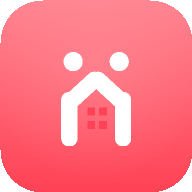
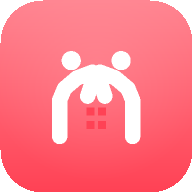
로고를 브랜드 가이드 공식 심볼로 교체
- 두 사람이 정점에서 교차하며 지붕 아치를 이루는 공식 심볼 형태로 재작업
- 반영 위치: 헤더/히어로/결과카드 SVG(mateon.js), 스플래시(index.html),
  Canvas 카드(card.js), 앱 아이콘/og-image(make-assets.js 재생성)
- SW 캐시 v6

diff --git a/make-assets.js b/make-assets.js
@@ -53,13 +53,20 @@ function distSeg(px, py, x1, y1, x2, y2) {
 const CORAL = [255, 107, 122], BLUE = [107, 158, 255], INK = [46, 46, 46], WHITE = [255, 255, 255];
 
 function drawLogo(px, W, H, ox, oy, scale, mono) {
-  const circles = [[40, 16, 10], [88, 16, 10]];
+  const circles = [[38, 15, 10], [90, 15, 10]];
+  // 공식 심볼: 두 몸통 스트로크가 정점에서 교차하며 지붕 아치 형성 (Q곡선 다각선 근사)
   const strokes = [
-    [[36, 96], [36, 56]], [[38, 57], [62, 35]],
-    [[92, 96], [92, 56]], [[90, 57], [66, 35]],
+    // coral (26,94)→(26,56)→Q(44,33)→(60,27)→Q(68,37)→(73,52)
+    [[26, 94], [26, 56]], [[26, 56], [31, 44]], [[31, 44], [44, 33]],
+    [[44, 33], [52, 30]], [[52, 30], [60, 27]],
+    [[60, 27], [64, 32]], [[64, 32], [68, 37]], [[68, 37], [70.5, 44.5]], [[70.5, 44.5], [73, 52]],
+    // blue (102,94)→(102,56)→Q(84,33)→(68,27)→Q(60,37)→(55,52)
+    [[102, 94], [102, 56]], [[102, 56], [97, 44]], [[97, 44], [84, 33]],
+    [[84, 33], [76, 30]], [[76, 30], [68, 27]],
+    [[68, 27], [64, 32]], [[64, 32], [60, 37]], [[60, 37], [57.5, 44.5]], [[57.5, 44.5], [55, 52]],
   ];
-  const rects = [[55, 64], [67, 64], [55, 78], [67, 78]];
-  const sw = 17 / 2;
+  const rects = [[54, 64], [66, 64], [54, 78], [66, 78]];
+  const sw = 16 / 2;
   const LW = Math.ceil(128 * scale), LH = Math.ceil(104 * scale);
   for (let ly = 0; ly < LH; ly++) {
     const v = ly / scale, Y = Math.round(oy + ly);
@@ -72,7 +79,7 @@ function drawLogo(px, W, H, ox, oy, scale, mono) {
         if (Math.hypot(u - cx, v - cy) <= r) col = mono ? WHITE : (ci === 0 ? CORAL : BLUE);
       });
       strokes.forEach(([a, b], si) => {
-        if (distSeg(u, v, a[0], a[1], b[0], b[1]) <= sw) col = mono ? WHITE : (si < 2 ? CORAL : BLUE);
+        if (distSeg(u, v, a[0], a[1], b[0], b[1]) <= sw) col = mono ? WHITE : (si < 9 ? CORAL : BLUE);
       });
       rects.forEach(([rx, ry]) => {
         if (u >= rx && u <= rx + 8 && v >= ry && v <= ry + 8) col = mono ? [255, 66, 85] : INK;

diff --git a/index.html b/index.html
@@ -37,11 +37,11 @@
   <div id="splash" aria-hidden="true">
     <div class="splash-inner">
       <svg class="splash-logo" width="96" height="77" viewBox="0 0 128 104" fill="none">
-        <circle cx="40" cy="16" r="10" fill="#FF6B7A"/>
-        <circle cx="88" cy="16" r="10" fill="#6B9EFF"/>
-        <path d="M36 96 V62 Q36 50 45 45 L62 35" stroke="#FF6B7A" stroke-width="17" stroke-linecap="round"/>
-        <path d="M92 96 V62 Q92 50 83 45 L66 35" stroke="#6B9EFF" stroke-width="17" stroke-linecap="round"/>
-        <g class="logo-window"><rect x="55" y="64" width="8" height="8" rx="1.5"/><rect x="67" y="64" width="8" height="8" rx="1.5"/><rect x="55" y="78" width="8" height="8" rx="1.5"/><rect x="67" y="78" width="8" height="8" rx="1.5"/></g>
+        <circle cx="38" cy="15" r="10" fill="#FF6B7A"/>
+        <circle cx="90" cy="15" r="10" fill="#6B9EFF"/>
+        <path d="M26 94 V56 Q26 38 44 33 L60 27 Q66 29 68 37 L73 52" stroke="#FF6B7A" stroke-width="16" stroke-linecap="round"/>
+        <path d="M102 94 V56 Q102 38 84 33 L68 27 Q62 29 60 37 L55 52" stroke="#6B9EFF" stroke-width="16" stroke-linecap="round"/>
+        <g class="logo-window"><rect x="54" y="64" width="8" height="8" rx="1.5"/><rect x="66" y="64" width="8" height="8" rx="1.5"/><rect x="54" y="78" width="8" height="8" rx="1.5"/><rect x="66" y="78" width="8" height="8" rx="1.5"/></g>
       </svg>
       <p class="splash-word" translate="no">MATE<span>:ON</span></p>
       <p class="splash-tag">함께 살 준비, 서로를 아는 것부터</p>

diff --git a/js/card.js b/js/card.js
@@ -60,17 +60,25 @@ var MateCard = (function () {
     ctx.translate(x, y);
     ctx.scale(s, s);
     ctx.lineCap = 'round';
-    ctx.lineWidth = 17;
+    ctx.lineWidth = 16;
     ctx.strokeStyle = CORAL;
-    ctx.beginPath(); ctx.moveTo(36, 96); ctx.lineTo(36, 60); ctx.quadraticCurveTo(36, 48, 45, 44); ctx.lineTo(62, 35); ctx.stroke();
+    ctx.beginPath();
+    ctx.moveTo(26, 94); ctx.lineTo(26, 56);
+    ctx.quadraticCurveTo(26, 38, 44, 33); ctx.lineTo(60, 27);
+    ctx.quadraticCurveTo(66, 29, 68, 37); ctx.lineTo(73, 52);
+    ctx.stroke();
     ctx.strokeStyle = BLUE;
-    ctx.beginPath(); ctx.moveTo(92, 96); ctx.lineTo(92, 60); ctx.quadraticCurveTo(92, 48, 83, 44); ctx.lineTo(66, 35); ctx.stroke();
+    ctx.beginPath();
+    ctx.moveTo(102, 94); ctx.lineTo(102, 56);
+    ctx.quadraticCurveTo(102, 38, 84, 33); ctx.lineTo(68, 27);
+    ctx.quadraticCurveTo(62, 29, 60, 37); ctx.lineTo(55, 52);
+    ctx.stroke();
     ctx.fillStyle = CORAL;
-    ctx.beginPath(); ctx.arc(40, 16, 10, 0, Math.PI * 2); ctx.fill();
+    ctx.beginPath(); ctx.arc(38, 15, 10, 0, Math.PI * 2); ctx.fill();
     ctx.fillStyle = BLUE;
-    ctx.beginPath(); ctx.arc(88, 16, 10, 0, Math.PI * 2); ctx.fill();
+    ctx.beginPath(); ctx.arc(90, 15, 10, 0, Math.PI * 2); ctx.fill();
     ctx.fillStyle = INK;
-    [[55, 64], [67, 64], [55, 78], [67, 78]].forEach(function (p) {
+    [[54, 64], [66, 64], [54, 78], [66, 78]].forEach(function (p) {
       roundRect(ctx, p[0], p[1], 8, 8, 1.5); ctx.fill();
     });
     ctx.restore();

diff --git a/js/mateon.js b/js/mateon.js
@@ -256,11 +256,11 @@
   function logoSVG(size) {
     return '' +
       '<svg class="logo-mark" width="' + (size || 40) + '" height="' + ((size || 40) * 0.8) + '" viewBox="0 0 128 104" fill="none" aria-hidden="true">' +
-      '<circle cx="40" cy="16" r="10" fill="#FF6B7A"/>' +
-      '<circle cx="88" cy="16" r="10" fill="#6B9EFF"/>' +
-      '<path d="M36 96 V62 Q36 50 45 45 L62 35" stroke="#FF6B7A" stroke-width="17" stroke-linecap="round"/>' +
-      '<path d="M92 96 V62 Q92 50 83 45 L66 35" stroke="#6B9EFF" stroke-width="17" stroke-linecap="round"/>' +
-      '<g class="logo-window"><rect x="55" y="64" width="8" height="8" rx="1.5"/><rect x="67" y="64" width="8" height="8" rx="1.5"/><rect x="55" y="78" width="8" height="8" rx="1.5"/><rect x="67" y="78" width="8" height="8" rx="1.5"/></g>' +
+      '<circle cx="38" cy="15" r="10" fill="#FF6B7A"/>' +
+      '<circle cx="90" cy="15" r="10" fill="#6B9EFF"/>' +
+      '<path d="M26 94 V56 Q26 38 44 33 L60 27 Q66 29 68 37 L73 52" stroke="#FF6B7A" stroke-width="16" stroke-linecap="round"/>' +
+      '<path d="M102 94 V56 Q102 38 84 33 L68 27 Q62 29 60 37 L55 52" stroke="#6B9EFF" stroke-width="16" stroke-linecap="round"/>' +
+      '<g class="logo-window"><rect x="54" y="64" width="8" height="8" rx="1.5"/><rect x="66" y="64" width="8" height="8" rx="1.5"/><rect x="54" y="78" width="8" height="8" rx="1.5"/><rect x="66" y="78" width="8" height="8" rx="1.5"/></g>' +
       '</svg>';
   }
 

diff --git a/sw.js b/sw.js
@@ -1,5 +1,5 @@
 /* MATE:ON Service Worker — 앱 셸 캐시 (network-first, 오프라인 폴백) */
-const CACHE = 'mateon-v5';
+const CACHE = 'mateon-v6';
 const ASSETS = [
   '.', 'index.html',
   'css/tokens.css', 'css/styles.css', 'css/mateon.css',
